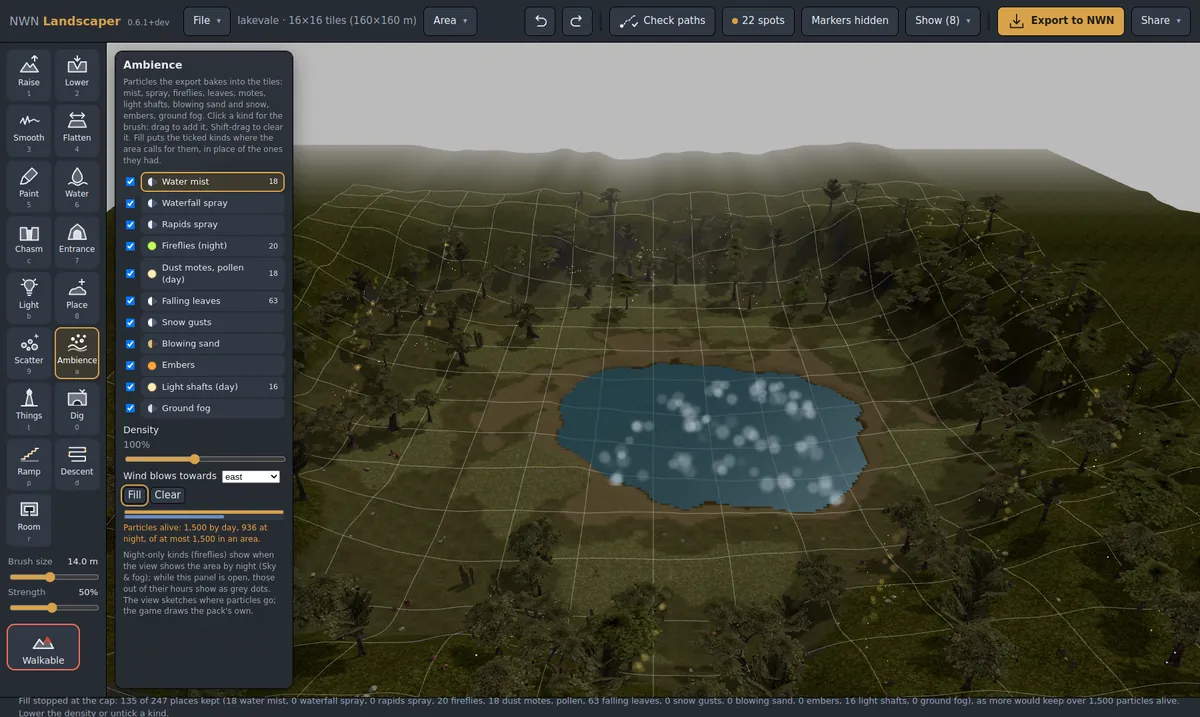
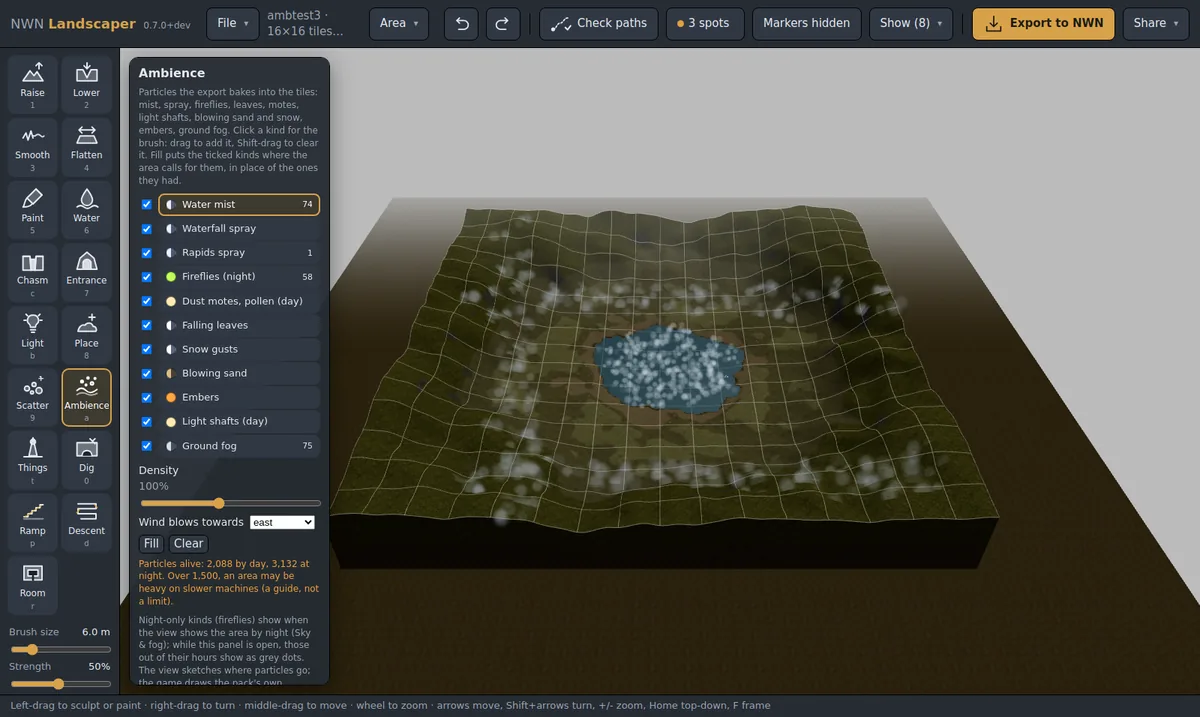
Ambience: no particle cap; 1,500 is a guide to a heavy area

diff --git a/src/ambience.rs b/src/ambience.rs
@@ -19,7 +19,8 @@
 //! - always-on kinds need no keys.
 //!
 //! The client keeps only the meshes of the scenery beyond the area's edge, so a placement outside the area is skipped, with a
-//! warning. So are a kind the pack doesn't have and placements past the area's live particle cap ([`AREA_LIVE_MAX`]).
+//! warning. So is a kind the pack doesn't have. Every other placement is baked, however many particles the area keeps alive: how
+//! busy an area is, is the builder's call.
 
 use std::collections::{BTreeMap, BTreeSet, HashMap};
 use std::fmt::Write as _;
@@ -31,10 +32,6 @@ use mg_mdl::{Classification, Controller, Model, Node, NodeKind, ctrl};
 
 /// The most particles one placement of a kind may keep alive (the design's "under 60 a placement").
 pub const PLACEMENT_LIVE_MAX: f32 = 60.0;
-
-/// The most particles an area's placements may keep alive together, by day or at night: the design's budget for a view. Placements
-/// past it are skipped.
-pub const AREA_LIVE_MAX: f32 = 1500.0;
 
 /// Another particle pack than the one built in: `LANDSCAPER_PARTICLES`, a folder holding its `pack.json`.
 pub const PACK_ENV: &str = "LANDSCAPER_PARTICLES";
@@ -359,7 +356,6 @@ impl Plan {
             "baked": self.baked(),
             "tiles": self.tiles.len(),
             "live": { "day": round(self.live[0]), "night": round(self.live[1]) },
-            "cap": AREA_LIVE_MAX,
         })
     }
 
@@ -372,8 +368,7 @@ impl Plan {
     pub fn summary(&self) -> String {
         let skipped: usize = self.skipped.iter().map(|s| s.count).sum();
         format!(
-            "ambience: {} of {} placements baked into {} tiles, {:.0} particles alive by day and {:.0} at night (at most \
-             {AREA_LIVE_MAX:.0}){}",
+            "ambience: {} of {} placements baked into {} tiles, {:.0} particles alive by day and {:.0} at night{}",
             self.baked(),
             self.placements,
             self.tiles.len(),
@@ -385,8 +380,7 @@ impl Plan {
 }
 
 /// `list`'s placements sorted into the area's tiles (`tiles`: columns, rows, 10 m each), each at its point less the tile's middle
-/// and `base` height. Skipped: a kind `pack` doesn't have (or every one, without a pack), a point outside the area, and, in the
-/// list's order, a placement that would take the area past [`AREA_LIVE_MAX`].
+/// and `base` height. Skipped: a kind `pack` doesn't have (or every one, without a pack) and a point outside the area.
 pub fn plan(list: &[Placement], pack: std::result::Result<&Pack, &str>, tiles: (usize, usize), base: impl Fn(usize, usize) -> f32) -> Plan {
     let mut plan = Plan { placements: list.len(), ..Plan::default() };
     let pack = match pack {
@@ -399,7 +393,6 @@ pub fn plan(list: &[Placement], pack: std::result::Result<&Pack, &str>, tiles: (
         }
     };
     let (w, h) = (tiles.0 as f32 * TILE, tiles.1 as f32 * TILE);
-    let mut over_cap: Option<Skipped> = None;
     for p in list {
         let skip = |why: String| Skipped { at: [p.x, p.y], count: 1, why };
         let Some(k) = pack.kind(&p.kind) else {
@@ -412,24 +405,11 @@ pub fn plan(list: &[Placement], pack: std::result::Result<&Pack, &str>, tiles: (
             continue;
         }
         let live = pack.kinds[k].live;
-        if (plan.live[0] + live[0]).max(plan.live[1] + live[1]) > AREA_LIVE_MAX + 1e-3 {
-            match &mut over_cap {
-                Some(s) => s.count += 1,
-                None => {
-                    over_cap = Some(skip(format!(
-                        "the area's placements would keep more than {AREA_LIVE_MAX:.0} particles alive: these weren't baked (place \
-                         fewer)"
-                    )));
-                }
-            }
-            continue;
-        }
         plan.live = [plan.live[0] + live[0], plan.live[1] + live[1]];
         let (tx, ty) = ((p.x / TILE) as usize, (p.y / TILE) as usize);
         let at = [p.x - (tx as f32 + 0.5) * TILE, p.y - (ty as f32 + 0.5) * TILE, p.z - base(tx, ty)];
         plan.tiles.entry((tx, ty)).or_default().push(Baked { kind: k, at, scale: p.scale, bearing: p.bearing });
     }
-    plan.skipped.extend(over_cap);
     plan
 }
 
@@ -724,24 +704,34 @@ mod tests {
     }
 
     #[test]
-    fn outside_the_area_an_unknown_kind_and_past_the_cap_are_skipped_with_a_warning() {
+    fn outside_the_area_and_an_unknown_kind_are_skipped_with_a_warning() {
         let pack = test_pack();
         let mut list = vec![at("mist", -0.5, 5.0, 0.0), at("mist", 5.0, 30.0, 0.0), at("rain", 5.0, 5.0, 0.0)];
-        // 1,500 particles is 83 mists (18 each) and a fraction: the 84th and on are skipped.
-        list.extend((0..90).map(|i| at("mist", 0.1 + i as f32 * 0.3, 5.0, 0.0)));
+        list.extend((0..10).map(|i| at("mist", 0.1 + i as f32 * 0.3, 5.0, 0.0)));
         let plan = plan(&list, Ok(&pack), (3, 3), |_, _| 0.0);
-        assert_eq!(plan.baked(), 83);
-        assert_eq!(plan.live, [83.0 * 18.0; 2]);
+        assert_eq!(plan.baked(), 10);
         let whys: Vec<(usize, &str)> = plan.skipped.iter().map(|s| (s.count, s.why.as_str())).collect();
-        assert_eq!(whys.len(), 4, "{whys:?}");
+        assert_eq!(whys.len(), 3, "{whys:?}");
         assert!(whys[0].1.contains("outside the area") && whys[1].1.contains("outside the area"));
         assert!(whys[2].1.contains("no kind rain"));
-        assert_eq!(whys[3].0, 7);
-        assert!(whys[3].1.contains("more than 1500 particles"));
-        assert_eq!(plan.warnings().count(), 4);
+        assert_eq!(plan.warnings().count(), 3);
         // No pack: every placement is skipped, in one warning that says why.
         let none = super::plan(&list, Err("no particle pack"), (3, 3), |_, _| 0.0);
         assert_eq!((none.baked(), none.skipped.len(), none.skipped[0].count), (0, 1, list.len()));
+    }
+
+    #[test]
+    fn an_area_past_1500_particles_bakes_every_placement() {
+        let pack = test_pack();
+        // 200 mists keep 3,600 particles alive, over what the design calls heavy: every one is baked and counted.
+        let list: Vec<Placement> =
+            (0..200).map(|i| at("mist", 0.1 + (i % 100) as f32 * 0.29, 5.0 + (i / 100) as f32 * 10.0, 0.0)).collect();
+        let plan = plan(&list, Ok(&pack), (3, 3), |_, _| 0.0);
+        assert_eq!((plan.baked(), plan.skipped.len(), plan.live), (200, 0, [3600.0; 2]));
+        let report = plan.report();
+        assert_eq!((report["baked"].clone(), report["live"]["day"].clone()), (200.into(), 3600.0.into()));
+        assert!(report.get("cap").is_none());
+        assert!(plan.summary().starts_with("ambience: 200 of 200 placements baked"), "{}", plan.summary());
     }
 
     /// The text of a small tile model with `baked`'s nodes and animations, as tile.rs writes it.

diff --git a/docs/DESIGN-ambience.md b/docs/DESIGN-ambience.md
@@ -285,10 +285,12 @@ animations (spike 0's rule).
 | **Ground fog** | hollows, swamp | flat sprites 8 to 11 m across (`Billboard_to_Local_Z`), one a second for 10 s | thicker at night | 10 |
 
 **Cost:** the stock models give the scale. `dag_fog_med` keeps 20 particles alive, `tnp_gmist` about 50, the light shaft
-`tnp_gsol1` 28 plus its meshes, and `silm_fog_50_lo` 1,250 (25 emitters). The pack keeps each placement under 60 and proposes a
-budget of 1,500 live particles in view. A particle is a camera-facing quad: the CPU cost grows with the count, and large soft
-sprites cost fill rate on the GPU when they cover the screen, which is why mist uses few big particles at low alpha. Frame times
-are not measured yet ("What this design could not check").
+`tnp_gsol1` 28 plus its meshes, and `silm_fog_50_lo` 1,250 (25 emitters). The pack keeps each placement under 60. An area is
+**heavy** past 1,500 live particles: a guide, not a limit. The editor shows the count and says when an area passes it, and the
+export bakes every placement however many there are; how busy an area is, is the builder's call. A particle is a camera-facing
+quad: the CPU cost grows with the count, and large soft sprites cost fill rate on the GPU when they cover the screen, which is
+why mist uses few big particles at low alpha. Frame times are not measured yet ("What this design could not check"), so 1,500 is
+a starting point, not a measured threshold.
 
 **First cut (step 6):** the pack is in [`packs/particles`](../packs/particles/README.md), tuned against client stills. What the
 stills showed:
@@ -481,8 +483,8 @@ start at once; step 3 needs 2, step 4 needs 3, step 5 needs 0, step 7 needs 5 an
 
 ## What this design could not check
 
-- **Frame time.** Every still came from the CPU renderer. Particle budgets above are counts, not milliseconds; step 6 should
-  measure them on a GPU.
+- **Frame time.** Every still came from the CPU renderer. The particle counts above (and the 1,500 the editor calls heavy) are
+  counts, not milliseconds; step 6 should measure them on a GPU.
 - **Real Skies on a GPU:** the Desert_Clear crash and the black triangles. The CPU renderer accepts 16,384 px textures, so it
   can't show a GPU's limit.
 - **Generated skies:** not made yet, so not seen in the game.

diff --git a/docs/handbook/ambience.md b/docs/handbook/ambience.md
@@ -4,7 +4,7 @@
 light shafts, snow gusts, blowing sand, embers and ground fog. The export bakes them into the tiles, so they cost the game no
 objects and need no `placeables.2da` rows.
 
-![The Ambience tool after Fill: mist on the lake, leaves and light shafts in the trees, stopped at the particle cap](../assets/handbook/ambience.webp)
+![The Ambience tool after Fill and the brush: mist on the lake, ground fog over the meadow, past 1,500 particles at night](../assets/handbook/ambience.webp)
 
 ## Fill the area
 
@@ -25,10 +25,10 @@ The status line says how many of each kind Fill placed; Undo takes them back. **
 Click a kind to choose it for the brush, then drag to add it. Shift-drag clears it. **Density** sets how close the brush puts
 them. **Wind blows towards** turns the kinds that blow (snow, sand) and leans the light shafts.
 
-## The particle cap
+## Particles alive
 
-The panel counts the particles the placements keep alive by day (top) and at night (bottom), against the area's cap of 1,500.
-Fill and the brush stop at the cap; the count turns to a warning as it gets close.
+The panel counts the particles the placements keep alive by day and at night. Past 1,500 it says the area may be heavy on slower
+machines: a guide, not a limit. Fill, the brush and the export never stop on the count; how busy an area is, is your call.
 
 ## Day and night
 

diff --git a/changelog.d/ambience-uncap.md b/changelog.d/ambience-uncap.md
@@ -1,0 +1,3 @@
+<!-- markdownlint-disable-file MD041 -->
+- **Ambience: no particle cap.** The export bakes every placement, however many particles the area keeps alive; its report and
+  summary still give the day and night counts. 1,500 is now only the editor's guide to a heavy area.
